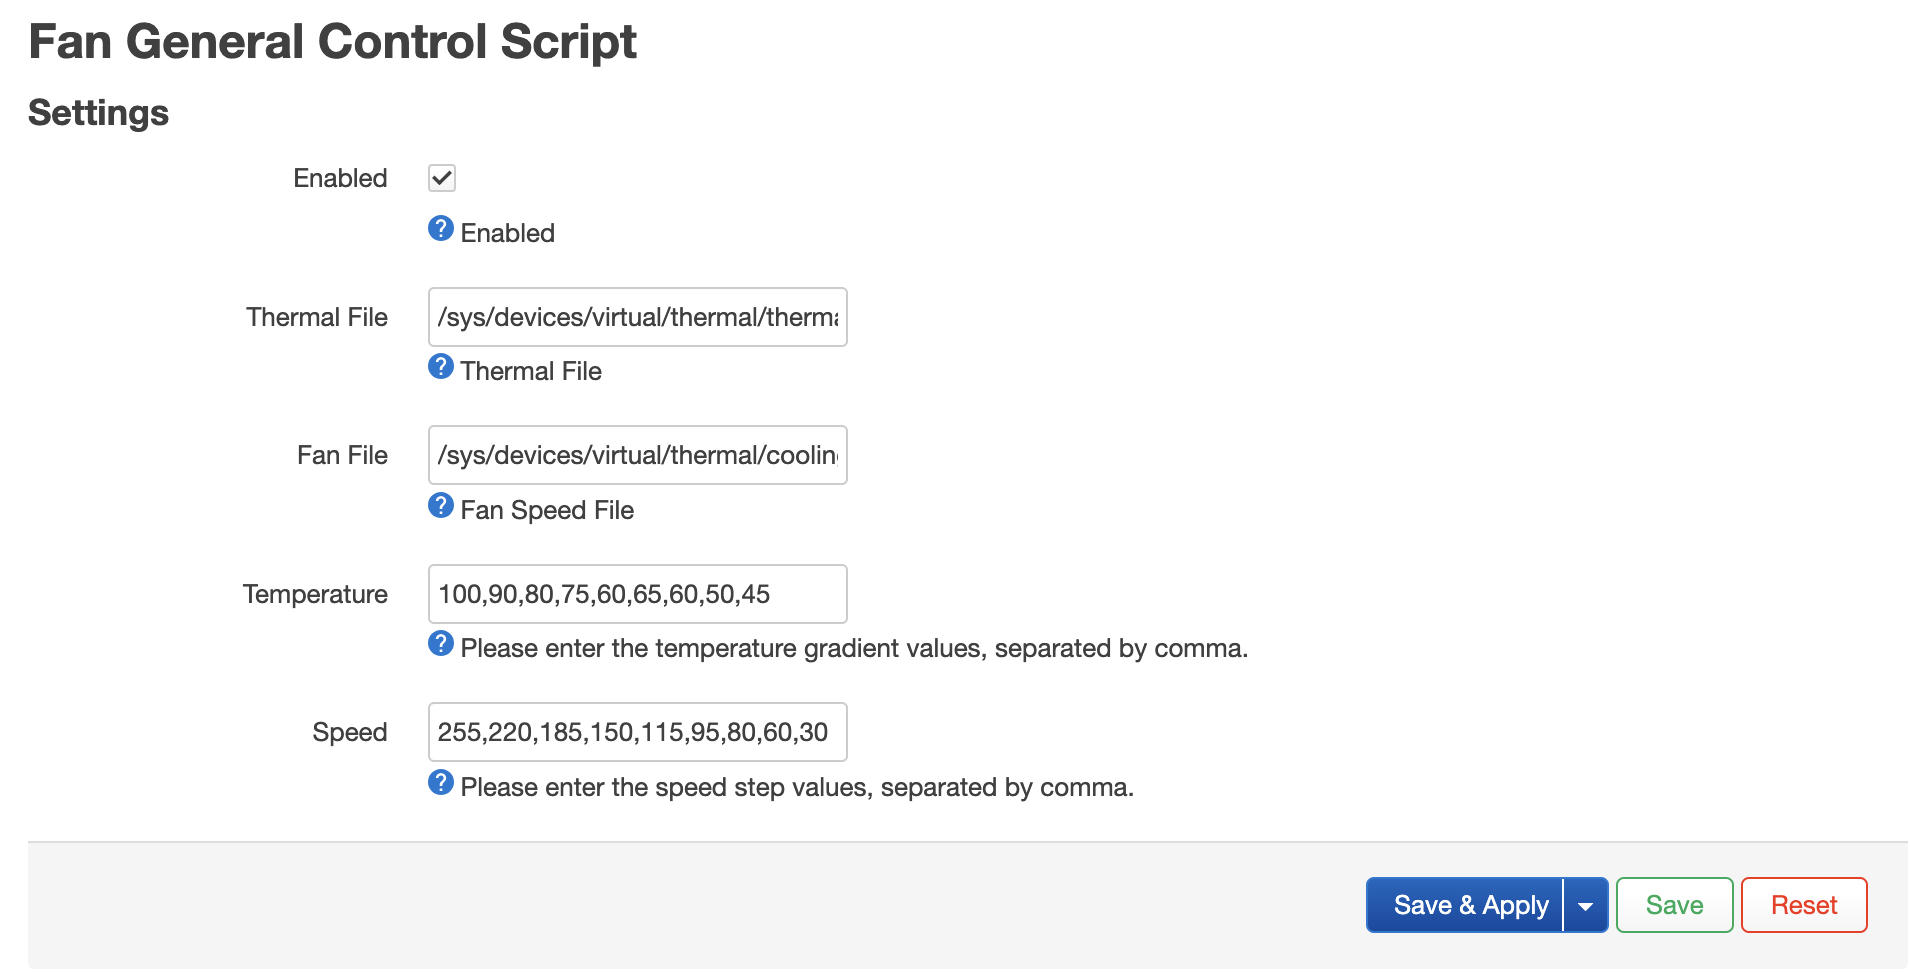
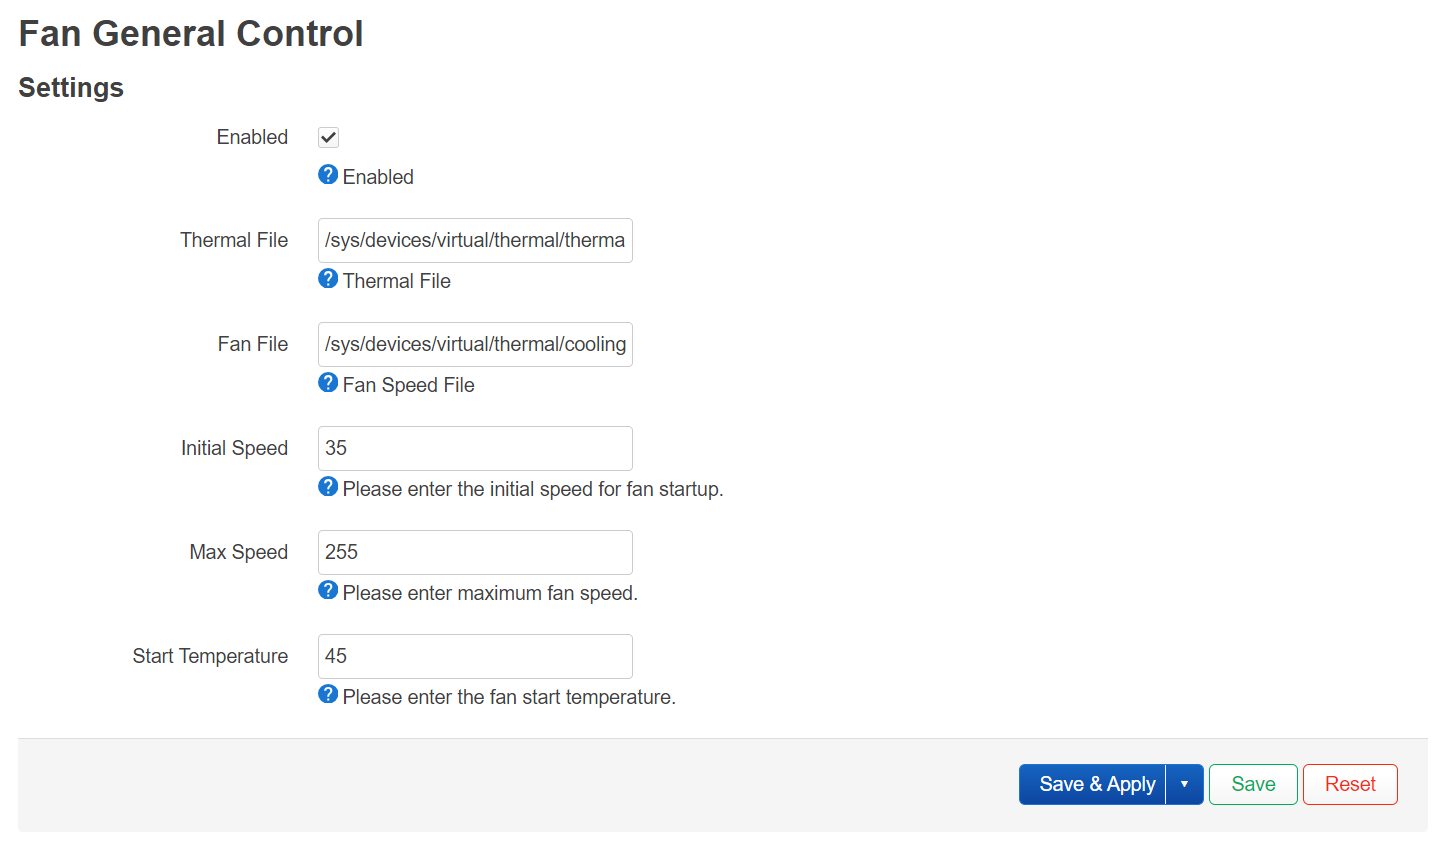
luci-app-fancontrol: support the latest fancontrol

diff --git a/luci-app-fancontrol/htdocs/luci-static/resources/view/fancontrol.js b/luci-app-fancontrol/htdocs/luci-static/resources/view/fancontrol.js
@@ -8,7 +8,7 @@ return view.extend({
 	render: function () {
 		var m, s, o, v;
 
-		m = new form.Map('fancontrol', _('Fan General Control Script'));
+		m = new form.Map('fancontrol', _('Fan General Control'));
 		s = m.section(form.TypedSection, 'fancontrol', _('Settings'));
 		s.anonymous = true;
 
@@ -21,11 +21,14 @@ return view.extend({
 		o = s.option(form.Value, 'fan_file', _('Fan File'), _('Fan Speed File'));
 		o.placeholder = '/sys/devices/virtual/thermal/cooling_device0/cur_state';
 
-		o = s.option(form.Value, 'thresholds', _('Temperature'), _('Please enter the temperature gradient values, separated by comma.'));
-		o.placeholder = '100,90,80,75,60,65,60,50,45';
+		o = s.option(form.Value, 'start_speed', _('Initial Speed'), _('Please enter the initial speed for fan startup.'));
+		o.placeholder = '35';
 
-		o = s.option(form.Value, 'speeds', _('Speed'), _('Please enter the speed step values, separated by comma.'));
-		o.placeholder = '255,220,185,150,115,95,80,60,30';
+		o = s.option(form.Value, 'max_speed', _('Max Speed'), _('Please enter maximum fan speed.'));
+		o.placeholder = '255';
+
+		o = s.option(form.Value, 'start_temp', _('Start Temperature'), _('Please enter the fan start temperature.'));
+		o.placeholder = '45';
 
 		return m.render();
 	}
